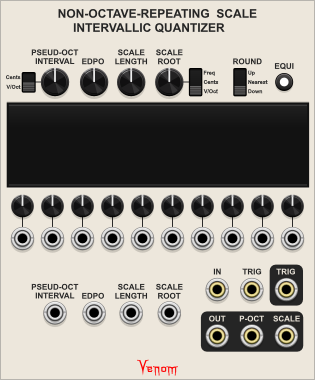
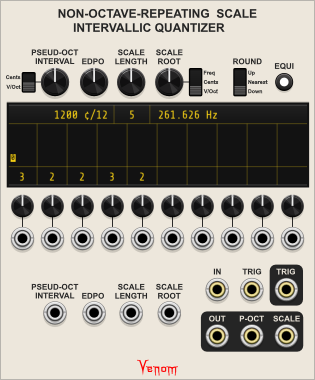
Completed all functionality!

diff --git a/src/NORS-IQ.cpp b/src/NORS-IQ.cpp
@@ -4,6 +4,7 @@
 #include "plugin.hpp"
 #include "fmt/core.h"
 #include <float.h>
+#include <string.h>
 
 #define LIGHT_ON 1.f
 #define LIGHT_OFF 0.02f
@@ -58,30 +59,45 @@ struct NORS_IQ : VenomModule {
   dsp::SchmittTrigger trigIn[16];
   dsp::PulseGenerator trigOut[16];
   int channelNote[16]{};
+  int channelOct[16]{};
   int oldTrigChannels = 0;
   int oldChannels = 0;
   float oldOut[16]{};
 
+  float poi = 1;
+  int edpo = 12;
+  int len = 0;
+  float root = 0;
+  int intvl[10]{};
+  
+  std::string poiStr(float val) {
+    if (params[POI_UNIT_PARAM].getValue() == CENT_UNIT)
+      return fmt::format("{:g} \u00A2", val*1200.f);
+    // VOCT_UNIT
+    return fmt::format("{:g} V", val);
+  }  
+
   struct IntervalQuantity : ParamQuantity {
     std::string getDisplayValueString() override {
-      if (module->params[POI_UNIT_PARAM].getValue() == CENT_UNIT)
-        return fmt::format("{:g} cents", getValue()*1200.f);
-      // VOCT_UNIT
-      return fmt::format("{:g} V", getValue());
+      return dynamic_cast<NORS_IQ*>(module)->poiStr(getValue());
     }
     void setDisplayValue(float v) override {
       setValue( module->params[POI_UNIT_PARAM].getValue() == CENT_UNIT ? v/1200.f : v);
     }
   };
+  
+  std::string rootStr(float val) {
+    if (params[ROOT_UNIT_PARAM].getValue() == FREQ_UNIT)
+      return fmt::format("{:g} Hz", pow(2.f, val + log2(dsp::FREQ_C4)));
+    if (params[ROOT_UNIT_PARAM].getValue() == CENT_UNIT)
+      return fmt::format("{:g} \u00A2", val*1200.f);
+    // VOCT_UNIT
+    return fmt::format("{:g} V", val);
+  }
 
   struct RootQuantity : ParamQuantity {
     std::string getDisplayValueString() override {
-      if (module->params[ROOT_UNIT_PARAM].getValue() == FREQ_UNIT)
-        return fmt::format("{:g} Hz", pow(2.f, getValue() + log2(dsp::FREQ_C4)));
-      if (module->params[ROOT_UNIT_PARAM].getValue() == CENT_UNIT)
-        return fmt::format("{:g} cents", getValue()*1200.f);
-      // VOCT_UNIT
-      return fmt::format("{:g} V", getValue());
+      return dynamic_cast<NORS_IQ*>(module)->rootStr(getValue());
     }
     void setDisplayValue(float v) override {
       if (module->params[ROOT_UNIT_PARAM].getValue() == FREQ_UNIT)
@@ -122,16 +138,18 @@ struct NORS_IQ : VenomModule {
 
   void process(const ProcessArgs& args) override {
     VenomModule::process(args);
-    float intvl = clamp(params[POI_PARAM].getValue() + inputs[POI_INPUT].getVoltage(), 0.f, 2.f) 
-                / clamp(params[EDPO_PARAM].getValue() + std::round(inputs[EDPO_INPUT].getVoltage()*10.f), 1.f, 100.f);
-    float root = params[ROOT_PARAM].getValue() + inputs[ROOT_INPUT].getVoltage();
-    int len = clamp(params[LENGTH_PARAM].getValue() + std::round(inputs[LENGTH_INPUT].getVoltage()), 1.f, 10.f);
+    poi = clamp(params[POI_PARAM].getValue() + inputs[POI_INPUT].getVoltage(), 0.f, 2.f);
+    edpo = clamp(params[EDPO_PARAM].getValue() + std::round(inputs[EDPO_INPUT].getVoltage()*10.f), 1.f, 100.f);
+    float minIntvl = poi / edpo;
+    root = clamp(params[ROOT_PARAM].getValue() + inputs[ROOT_INPUT].getVoltage(), -4.f, 4.f);
+    len = clamp(params[LENGTH_PARAM].getValue() + std::round(inputs[LENGTH_INPUT].getVoltage()), 1.f, 10.f);
     float step[10];
     float scale = 0.f;
     int round = params[ROUND_PARAM].getValue();
     bool equi = params[EQUI_PARAM].getValue();
     for (int i=0; i<len; i++){
-      scale += (step[i] = intvl * clamp(params[INTVL_PARAM+i].getValue() + std::round(inputs[INTVL_INPUT+i].getVoltage()*10.f), 1.f, 100.f));
+      intvl[i] = clamp(params[INTVL_PARAM+i].getValue() + std::round(inputs[INTVL_INPUT+i].getVoltage()*10.f), 1.f, 100.f);
+      scale += (step[i] = minIntvl * intvl[i]);
       outputs[SCALE_OUTPUT].setVoltage(scale+root, i+1);
     }
     outputs[SCALE_OUTPUT].setVoltage(root, 0);
@@ -146,8 +164,8 @@ struct NORS_IQ : VenomModule {
     if (channels < oldChannels) {
       for (int c=channels; c<oldChannels; c++)
         trigOut[c].reset();
-      oldChannels = channels;
-    }  
+    }
+    oldChannels = channels;
     for (int c=0; c<channels; c++) {
       if (trigIn[c].process(inputs[TRIG_INPUT].getPolyVoltage(c), 0.1f, 1.f) || !inputs[TRIG_INPUT].isConnected()) {
         float in = inputs[IN_INPUT].getPolyVoltage(c);
@@ -177,6 +195,7 @@ struct NORS_IQ : VenomModule {
           channelNote[c]=0;
           oct++;
         }
+        channelOct[c] = oct;
         if (!isNear(oldOut[c],out)) {
           oldOut[c] = out;
           if (!inputs[TRIG_INPUT].isConnected())
@@ -195,12 +214,121 @@ struct NORS_IQ : VenomModule {
 
 };
 
-struct NORS_IQWidget : VenomWidget {
 
-  template <class TModule>  
-  struct NORS_IQDisplay : LedDisplay {
-    NORS_IQ* module = NULL;
-  };  
+struct NORS_IQDisplay : LedDisplay {
+  NORS_IQ* module = NULL;
+  ModuleWidget* moduleWidget = NULL;
+  std::string fontPath;
+  
+  NORS_IQDisplay() {
+    fontPath = asset::system("res/fonts/ShareTechMono-Regular.ttf");
+  }
+
+  void drawLine(const DrawArgs& args, float x0, float y0, float x1, float y1) {
+    nvgBeginPath(args.vg);
+    nvgMoveTo(args.vg, x0, y0);
+    nvgLineTo(args.vg, x1, y1);
+    nvgStroke(args.vg);
+  }
+  
+  void drawNote(const DrawArgs& args, float x0, float y0, int oct, std::shared_ptr<Font> font) {
+    if (oct < 0) {
+      nvgFillColor(args.vg, SCHEME_RED);
+      oct=-oct;
+    }
+    else
+      nvgFillColor(args.vg, SCHEME_YELLOW);
+
+    float xDelta = 2.5f;
+    float yDelta = 3.8f;
+    nvgBeginPath(args.vg);
+    nvgMoveTo(args.vg, x0-xDelta, y0+yDelta);
+    nvgLineTo(args.vg, x0-xDelta, y0-yDelta);
+    nvgLineTo(args.vg, x0+xDelta, y0-yDelta);
+    nvgLineTo(args.vg, x0+xDelta, y0+yDelta);
+    nvgClosePath(args.vg);
+
+    char chr;
+    if (oct < 10)
+      chr = '0' + oct;
+    else if (oct < 36)
+      chr = 'A' + oct - 10;
+    else if (oct < 62)
+      chr = 'a' + oct - 36;
+    else
+      chr = ' ';
+    std::string txt = string::f("%c", chr);
+    nvgFill(args.vg);
+    nvgFontSize(args.vg, 9);
+    nvgFillColor(args.vg, SCHEME_BLACK);
+    nvgTextAlign(args.vg, NVG_ALIGN_CENTER + NVG_ALIGN_MIDDLE);
+    nvgText(args.vg, x0, y0, txt.c_str(), NULL);
+  }
+
+  void drawLayer(const DrawArgs& args, int layer) override {
+    if (layer != 1)
+      return;
+
+    // draw lines
+    nvgStrokeColor(args.vg, nvgRGBA(0xff, 0xd7, 0x14, 0x40));
+    drawLine(args, 2.f,21.f, 300.233f,21.f);
+    drawLine(args, 2.f,64.f, 300.233f,64.f);
+    drawLine(args, 107.2f,2.6f, 107.2f,21.f);
+    drawLine(args, 143.f,2.6f, 143.f,21.f);
+    float x = 30.3f;
+    for (int i=0; i<9; i++) {
+      drawLine(args, x,21.f, x,82.247);
+      x += 30.f;
+    }
+    
+    // draw text
+    int dummyIntvl[5] {3,2,2,3,2};
+    std::shared_ptr<Font> font = APP->window->loadFont(fontPath);
+    if (!font)
+      return;
+    nvgFontSize(args.vg, 13);
+    nvgFontFaceId(args.vg, font->handle);
+    nvgFillColor(args.vg, SCHEME_YELLOW);
+
+    std::string txt;
+    txt = module ? module->poiStr(module->poi) + string::f("/%d", module->edpo) : "1200 \u00A2/12";
+    nvgTextAlign(args.vg, NVG_ALIGN_RIGHT + NVG_ALIGN_TOP);
+    nvgText(args.vg, 101.f, 6.f, txt.c_str(), NULL);
+
+    txt = module ? string::f("%d", module->len) : "5";
+    nvgTextAlign(args.vg, NVG_ALIGN_CENTER + NVG_ALIGN_TOP);
+    nvgText(args.vg, 125.1f, 6.f, txt.c_str(), NULL);
+
+    txt = module ? module->rootStr(module->root) : "261.626 Hz";
+    nvgTextAlign(args.vg, NVG_ALIGN_LEFT + NVG_ALIGN_TOP);
+    nvgText(args.vg, 151.f, 6.f, txt.c_str(), NULL);
+    
+    nvgTextAlign(args.vg, NVG_ALIGN_CENTER + NVG_ALIGN_BOTTOM);
+    x = 15.3f;
+    for (int i=0; i<(module ? module->len : 5); i++) {
+      txt = string::f("%d", module ? module->intvl[i] : dummyIntvl[i]);
+      nvgText(args.vg, x, 81.f, txt.c_str(), NULL);
+      x += 30.f;
+    }
+    
+    // draw quantized notes
+    float x0 = 6.3f;
+    float y0 = 55.4f;
+    float xDelta = 6.f;
+    float yDelta = 8.6f;
+    float width = 30;
+    if (module) {
+      for (int c=0; c<module->oldChannels; c++) {
+        int cx = c/4;
+        int cy = c - cx*4;
+        drawNote(args, x0 + module->channelNote[c]*width + cx*xDelta, y0 - cy*yDelta, module->channelOct[c], font);
+      }
+    } else drawNote(args, x0, y0, 0, font);
+  }
+
+};  
+
+struct NORS_IQWidget : VenomWidget {
 
   NORS_IQWidget(NORS_IQ* module) {
     setModule(module);
@@ -234,9 +362,10 @@ struct NORS_IQWidget : VenomWidget {
     addOutput(createOutputCentered<PolyPJ301MPort>(Vec(251.867, 336.052), module, NORS_IQ::POCT_OUTPUT));
     addOutput(createOutputCentered<PolyPJ301MPort>(Vec(286.455, 336.052), module, NORS_IQ::SCALE_OUTPUT));
     
-    NORS_IQDisplay<NORS_IQ>* display = createWidget<NORS_IQDisplay<NORS_IQ>>(Vec(6.83,102.629));
+    NORS_IQDisplay* display = createWidget<NORS_IQDisplay>(Vec(6.83,102.629));
     display->box.size = Vec(302.233, 84.847);
     display->module = module;
+    display->moduleWidget = this;
     addChild(display);
   }
 

diff --git a/README.md b/README.md
@@ -534,21 +534,21 @@ The switch beside the knob defines what unit will be used for display and manual
 
 The monophonic input always uses the V/Oct standard.
 
-The effective pseudo-octave interval is the sum of the knob and input values, clamped to a value between 0 and 2 octaves. The effective value is displayed below the knob (not yet implemented), using the units defined by the switch.
+The effective pseudo-octave interval is the sum of the knob and input values, clamped to a value between 0 and 2 octaves. The effective value is displayed below the knob, using the units defined by the switch.
 
 ### EDPO (Equal Divisions per Pseudo Octave) knob and input
 Defines the number of equal divisions of the pseudo-octave interval, which in turn defines the scale's chromatic step interval. The default value is 12.
 
 The monophonic input is scaled at 10 divisions per volt.
 
-The effective number of divisions is the sum of the knob and input values, rounded and clamped to an integral value between 1 and 100. The effective value is displayed below the knob (not yet implemented).
+The effective number of divisions is the sum of the knob and input values, rounded and clamped to an integral value between 1 and 100. The effective value is displayed below the knob.
 
 ### Scale Length and input
 Defines the number of intervals (notes) in the scale. The final interval defines the jump from the last note in the scale to the root of the next pseudo-octave. The default value is 7.
 
 The monophonic input is scaled at 1 scale interval per volt.
 
-The effective scale length is the sum of the knob and input values, rounded and clamped to an integral value between 1 and 10. The effective value is displayed below the knob (not yet implemented).
+The effective scale length is the sum of the knob and input values, rounded and clamped to an integral value between 1 and 10. The effective value is displayed below the knob.
 
 ### Scale Root knob, input, and unit switch
 Defines the root note of the repeating scale.
@@ -562,7 +562,7 @@ The knob default is always C4, regardless which unit is used.
 
 The monophonic input always uses the V/Oct standard.
 
-The effective Scale Root is the sum of the knob and input values. The effective value is displayed below the knob (not yet implemented), using the units defined by the switch.
+The effective Scale Root is the sum of the knob and input values, clamped to a value between -4V (C0) and 4V (C8). The effective value is displayed below the knob, using the units defined by the switch.
 
 ### Round switch
 Determines how input voltages are quantized
@@ -580,7 +580,19 @@ The 10 small knobs and monophonic inputs below the display area define the inter
 
 The inputs are scaled at 10 chromatic steps per volt. 
 
-The effective interval is the sum of the knob and input values, rounded and clamped to an integral value between 1 and 100. The effective value for each interval is displayed above the respective knob (not yet implemented). Inactive interval knobs, as defined by the Scale Length, do not have any value displayed above them.
+The effective interval is the sum of the knob and input values, rounded and clamped to an integral value between 1 and 100. The effective value for each interval is displayed above the respective knob. Inactive interval knobs, as defined by the Scale Length, do not have any value displayed above them.
+
+### Display Panel
+The display panel is divided into 3 sections. As already described above, the top section displays the effective values for the upper controls, and the bottom section displays the effective values for the 10 interval controls.
+
+The middle section indicates which note within the scale is selected. Each polyphonic channel has its own position within a 4 x 4 grid above each interval.
+
+The left most grid above the left most interval knob represents the root of the scale. The next grid represents the 2nd note, etc.
+
+The indicator is yellow when the selected note is >= the effective Scale Root, and red if < the Scale Root. The character within each indicator represents the distance away from the root (pseudo)octave. A value of 0 represents the scale containing the Scale Root. The (pseudo)octave indicators are coded as follows:
+ - 0-9 = 0-9
+ - A-Z = 10 - 35
+ - a-z = 37 - 61
 
 ### IN input
 The polyphonic IN input provides the V/Oct frequency control voltage to be quantized.

diff --git a/changelog.md b/changelog.md
@@ -11,6 +11,7 @@
 - Mix Fade 2 Expander
 - Mix Pan Expander
 - Mix Aux Send Expander
+- Non-Octave Repeating Scale Intervallic Quantizer
 
 ### Enhancements
 - All modules: Polyphonic ports now use brass cores, while monophonic ports use steel.
